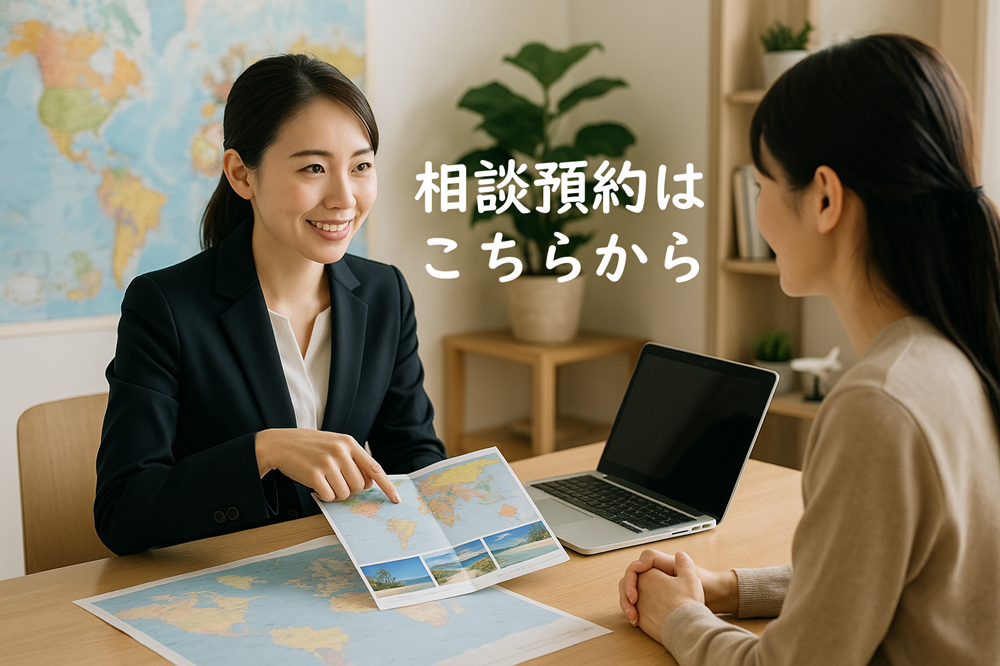
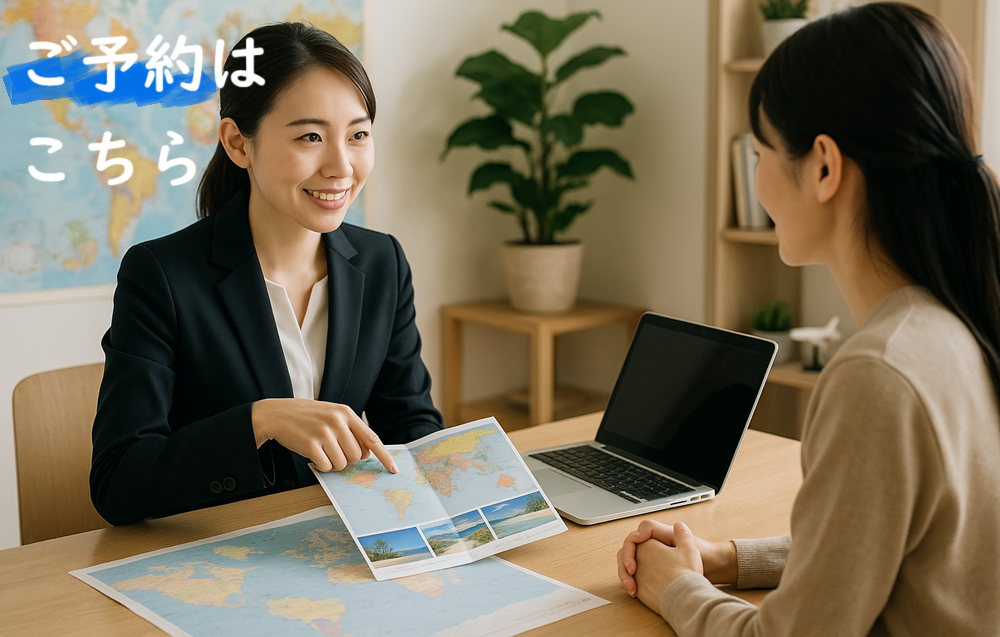
Add files via upload

diff --git a/index.html b/index.html
@@ -119,7 +119,7 @@
                 <div class="place"><a href="season.html">
                     <img src="photos/abus/tr2.png" width="200" height="100"alt="about" class="abimg1">
                     <h3>ベストシーズン</h3></a>
-                    <p>なんかかく</p>
+                    <p>本国の気候についてご紹介します！</p>
                 </div>
             </div>
             <a class="hero3" href="#returntop">トップに戻る</a>
@@ -128,6 +128,7 @@
 
     <footer>
         <p><small>Copyright NTourist All Rights Reserved.</small></p>
+        <p><small>当サイトは架空の旅行サイトです.すべての著作物、写真は撮影者に帰属します.</small></p>
         <button><a href="#returntop">トップに戻る</a></button>
     </footer>
 </body>

diff --git a/style.css b/style.css
@@ -216,10 +216,4 @@ footer p {
     margin: 0;
     color: #777;
 }
-/* スマホサイズで画像を切り替え */
-@media screen and (max-width: 768px) {
-    .slider-image {
-        background-image: url('introa.png'); /* スマホ用画像 */
-    }
-}
 
